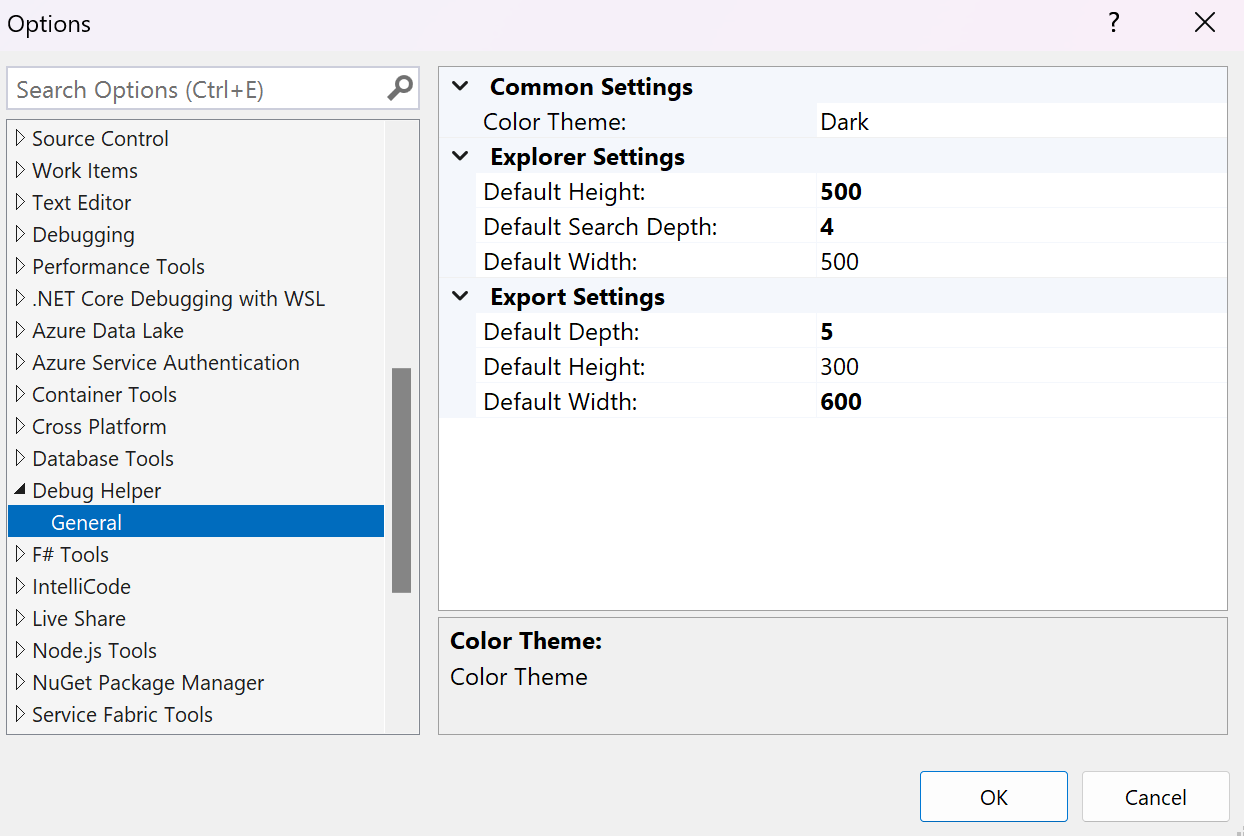
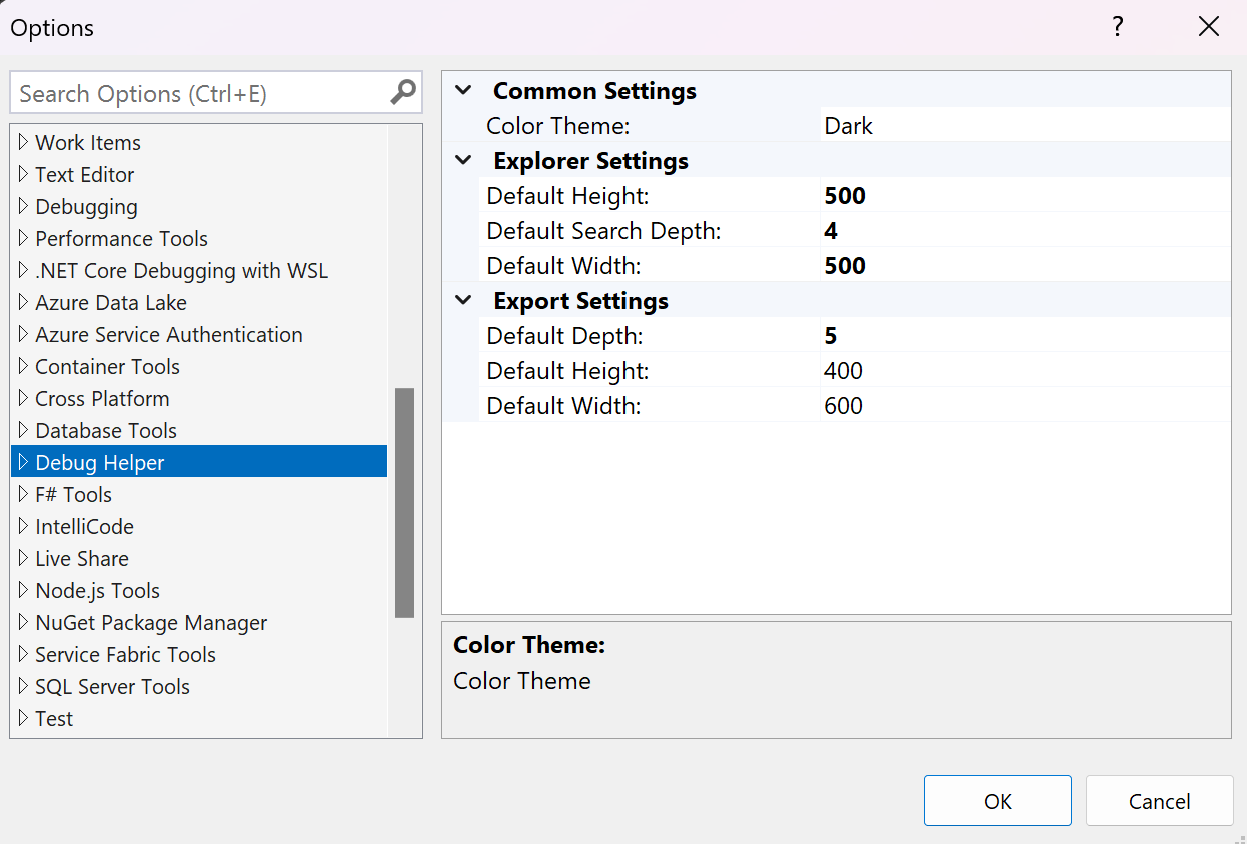
Updates

diff --git a/src/Dialogs/ExportDialog.xaml b/src/Dialogs/ExportDialog.xaml
@@ -9,9 +9,12 @@
              xmlns:debugHelper="clr-namespace:DebugHelper"
              mc:Ignorable="d" 
              Style="{StaticResource CustomWindowStyle}"
-             d:DesignHeight="450" d:DesignWidth="800">
+             d:DesignHeight="450" d:DesignWidth="833.5">
     <Grid>
-        <TabControl x:Name="tabs" Margin="0,25,191,0">
+        <Grid.ColumnDefinitions>
+            <ColumnDefinition/>
+        </Grid.ColumnDefinitions>
+        <TabControl x:Name="tabs" Margin="0,25,246,0">
             <TabItem Header="C#" FontWeight="Bold" IsSelected="True">
                 <Grid Background="#FFE5E5E5">
                     <Grid.ColumnDefinitions>
@@ -39,10 +42,10 @@
                 </Grid>
             </TabItem>
         </TabControl>
-        <Button Content=" - " Margin="0,48,118,0" FontWeight="Bold" HorizontalAlignment="Right" Width="20" Height="20" VerticalAlignment="Top" Click="Button_Dec_Click"/>
-        <TextBox x:Name="maxDepth" IsReadOnly="True" Margin="0,49,84,0" TextWrapping="Wrap" Text="3" TextAlignment="Center" FontWeight="Bold" HorizontalAlignment="Right" Width="30" Height="18" VerticalAlignment="Top"/>
-        <Button Content=" + " Margin="0,48,61,0" FontWeight="Bold" HorizontalAlignment="Right" Width="20" Click="Button_Inc_Click" Height="20" VerticalAlignment="Top"/>
-        <Label Content="Depth" HorizontalAlignment="Right" Margin="0,20,53,0" FontWeight="Bold" RenderTransformOrigin="-0.547,-0.955" Width="71" Height="26" VerticalAlignment="Top"/>
+        <Button Content=" - " Margin="0,62,160,0" FontWeight="Bold" HorizontalAlignment="Right" Width="20" Height="20" VerticalAlignment="Top" Click="Button_Dec_Click"/>
+        <TextBox x:Name="maxDepth" IsReadOnly="True" Margin="0,63,126,0" TextWrapping="Wrap" Text="3" TextAlignment="Center" FontWeight="Bold" HorizontalAlignment="Right" Width="30" Height="18" VerticalAlignment="Top"/>
+        <Button Content=" + " Margin="0,62,104,0" FontWeight="Bold" HorizontalAlignment="Right" Width="20" Click="Button_Inc_Click" Height="20" VerticalAlignment="Top"/>
+        <Label Content="Depth" HorizontalAlignment="Right" Margin="0,34,96,0" FontWeight="Bold" RenderTransformOrigin="-0.547,-0.955" Width="70" Height="26" VerticalAlignment="Top"/>
 
 
         <Button  Margin="0,0,14,63" HorizontalAlignment="Right" Width="152" Height="37" VerticalAlignment="Bottom" Click="CopyToClipboard_Click" FontWeight="Bold">
@@ -51,9 +54,14 @@
             </DockPanel>
         </Button>
 
-        <Button Margin="0,0,14,17" Content="Save To File" HorizontalAlignment="Right" Width="152" Height="37" VerticalAlignment="Bottom" Click="Button_SaveToFile_Click" FontWeight="Bold">
-        </Button>
+        <Button Margin="0,0,14,17" Content="Save To File" HorizontalAlignment="Right" Width="152" Height="37" VerticalAlignment="Bottom" Click="Button_SaveToFile_Click" FontWeight="Bold"/>
         <TextBox x:Name="codeObject" Margin="10,2,14,0" Padding="10, 0, 0, 0" TextWrapping="Wrap" Text="a[0]" VerticalAlignment="Top" Height="20" KeyUp="RunDumpResult_KeyUp" FontWeight="Bold"/>
+        <CheckBox x:Name="useTypeFullName" Content="Use Type Full Name" Margin="0,100,26,0" VerticalAlignment="Top" FontSize="14" HorizontalAlignment="Right" Width="188" FontWeight="Bold" IsChecked="False" Click="checkbox_Checked" />
+        <CheckBox x:Name="ignoreIndexers" Content="Ignore Indexers" Margin="0,123,26,0" VerticalAlignment="Top" FontSize="14" HorizontalAlignment="Right" Width="188" FontWeight="Bold" IsChecked="False" Click="checkbox_Checked" />
+        <CheckBox x:Name="ignoreDefaultValues" Content="Ignore Default Values" Margin="0,146,26,0" VerticalAlignment="Top" FontSize="14" HorizontalAlignment="Right" Width="188" FontWeight="Bold" IsChecked="False" Click="checkbox_Checked" />
+        <CheckBox x:Name="setPropertiesOnly" Content="Set Properties Only" Margin="0,169,26,0" VerticalAlignment="Top" FontSize="14" HorizontalAlignment="Right" Width="188" FontWeight="Bold" IsChecked="False" Click="checkbox_Checked" />
+        <CheckBox x:Name="trimInitialVariableName" Content="Trim Initial Variable Name" Margin="0,192,10,0" VerticalAlignment="Top" FontSize="14" HorizontalAlignment="Right" Width="204" FontWeight="Bold" IsChecked="False" Click="checkbox_Checked" />
+        <CheckBox x:Name="trimTrailingColonName" Content="Trim Trailing Colon Name" Margin="0,215,10,0" VerticalAlignment="Top" FontSize="14" HorizontalAlignment="Right" Width="204" FontWeight="Bold" IsChecked="False" Click="checkbox_Checked" />
 
     </Grid>
 </platformUi:DialogWindow>

diff --git a/src/Options/DebugHelperOptions.cs b/src/Options/DebugHelperOptions.cs
@@ -20,14 +20,14 @@ namespace DebugHelper.Options
         [Category(" Explorer Settings")]
         [DisplayName("Default Width:")]
         [Description("Default Width")]
-        [DefaultValue(500)]
-        public int ExplorerDefaultWidth { get; set; } = 500;
+        [DefaultValue(600)]
+        public int ExplorerDefaultWidth { get; set; } = 600;
 
         [Category(" Explorer Settings")]
         [DisplayName("Default Height:")]
         [Description("Default Height")]
-        [DefaultValue(300)]
-        public int ExplorerDefaultHeight { get; set; } = 300;
+        [DefaultValue(400)]
+        public int ExplorerDefaultHeight { get; set; } = 400;
 
         [Category(" Export Settings")]
         [DisplayName("Default Depth:")]
@@ -38,13 +38,13 @@ namespace DebugHelper.Options
         [Category(" Export Settings")]
         [DisplayName("Default Width:")]
         [Description("Default Width")]
-        [DefaultValue(500)]
-        public int ExportDefaultWidth { get; set; } = 500;
+        [DefaultValue(600)]
+        public int ExportDefaultWidth { get; set; } = 600;
 
         [Category(" Export Settings")]
         [DisplayName("Default Height:")]
         [Description("Default Height")]
-        [DefaultValue(300)]
-        public int ExportDefaultHeight { get; set; } = 300;
+        [DefaultValue(400)]
+        public int ExportDefaultHeight { get; set; } = 400;
     }
 }

diff --git a/src/Dialogs/ExportDialog.xaml.cs b/src/Dialogs/ExportDialog.xaml.cs
@@ -70,7 +70,7 @@ namespace DebugHelper.Dialogs
 
         private string GetExpressionString(DumpStyle dumpStyle)
         {
-            return $"ObjectDumper.Dump({_objectName}, new DumpOptions(){{MaxLevel = {_maxDepthValue},DumpStyle = DumpStyle.{dumpStyle}}})";
+            return $"ObjectDumper.Dump({_objectName}, new DumpOptions(){{MaxLevel = {_maxDepthValue},DumpStyle = DumpStyle.{dumpStyle}, UseTypeFullName = {useTypeFullName.IsChecked.ToString().ToLower()}, IgnoreIndexers = {ignoreIndexers.IsChecked.ToString().ToLower()}, IgnoreDefaultValues = {ignoreDefaultValues.IsChecked.ToString().ToLower()}, SetPropertiesOnly = {setPropertiesOnly.IsChecked.ToString().ToLower()}, TrimInitialVariableName = {trimInitialVariableName.IsChecked.ToString().ToLower()}, TrimTrailingColonName = {trimTrailingColonName.IsChecked.ToString().ToLower()}}})";
         }
 
         private void Button_Dec_Click(object sender, RoutedEventArgs e)
@@ -141,6 +141,11 @@ namespace DebugHelper.Dialogs
 
             _objectName = codeObject.Text;
 
+            GetDumpResult();
+        }
+
+        private void checkbox_Checked(object sender, RoutedEventArgs e)
+        {
             GetDumpResult();
         }
     }
